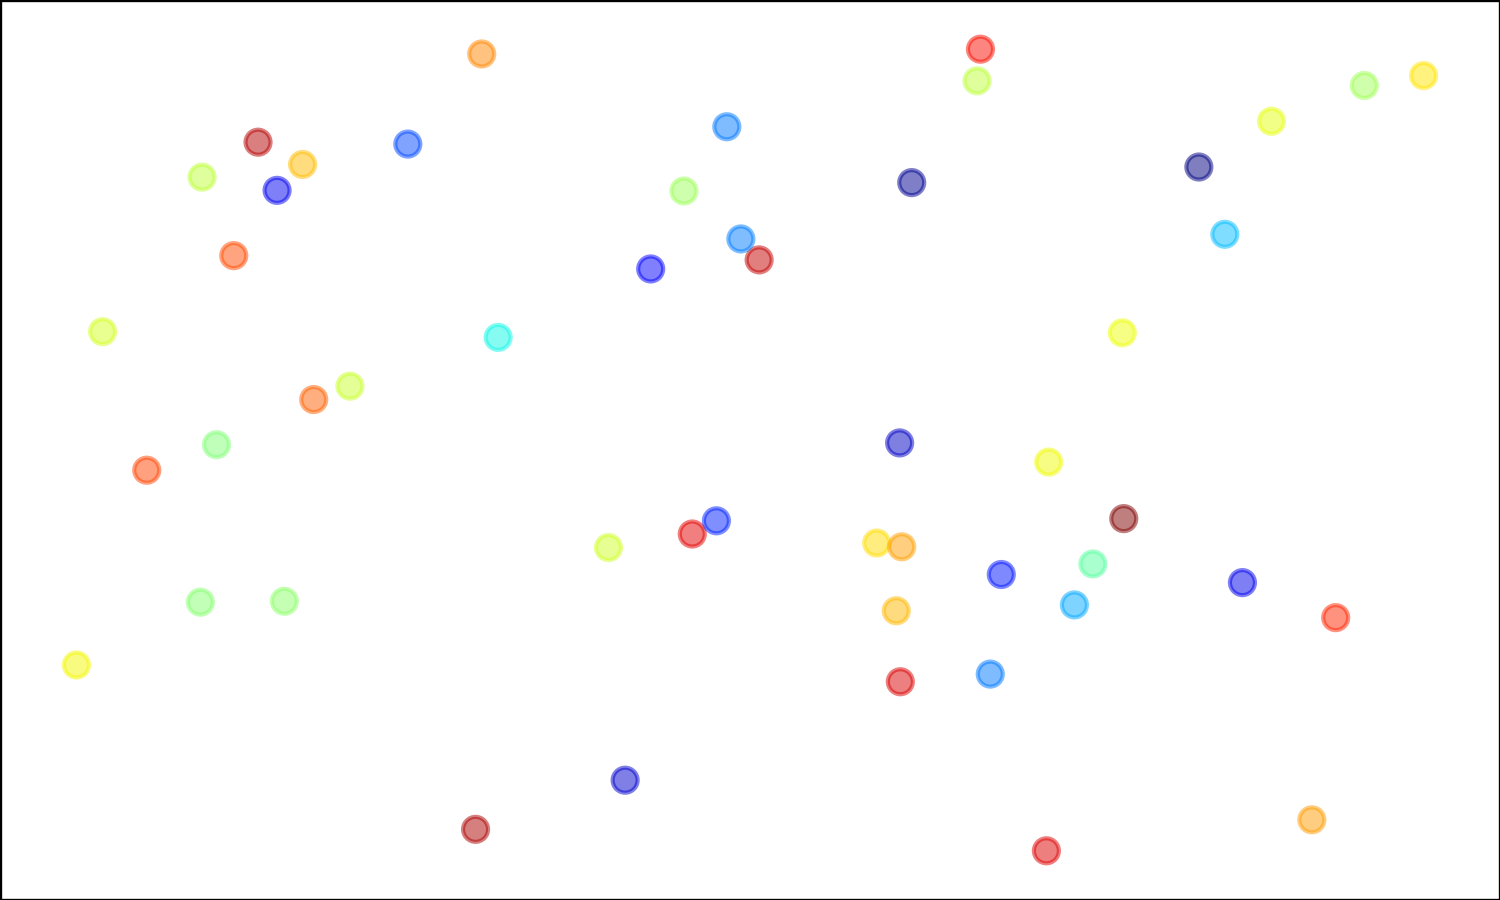
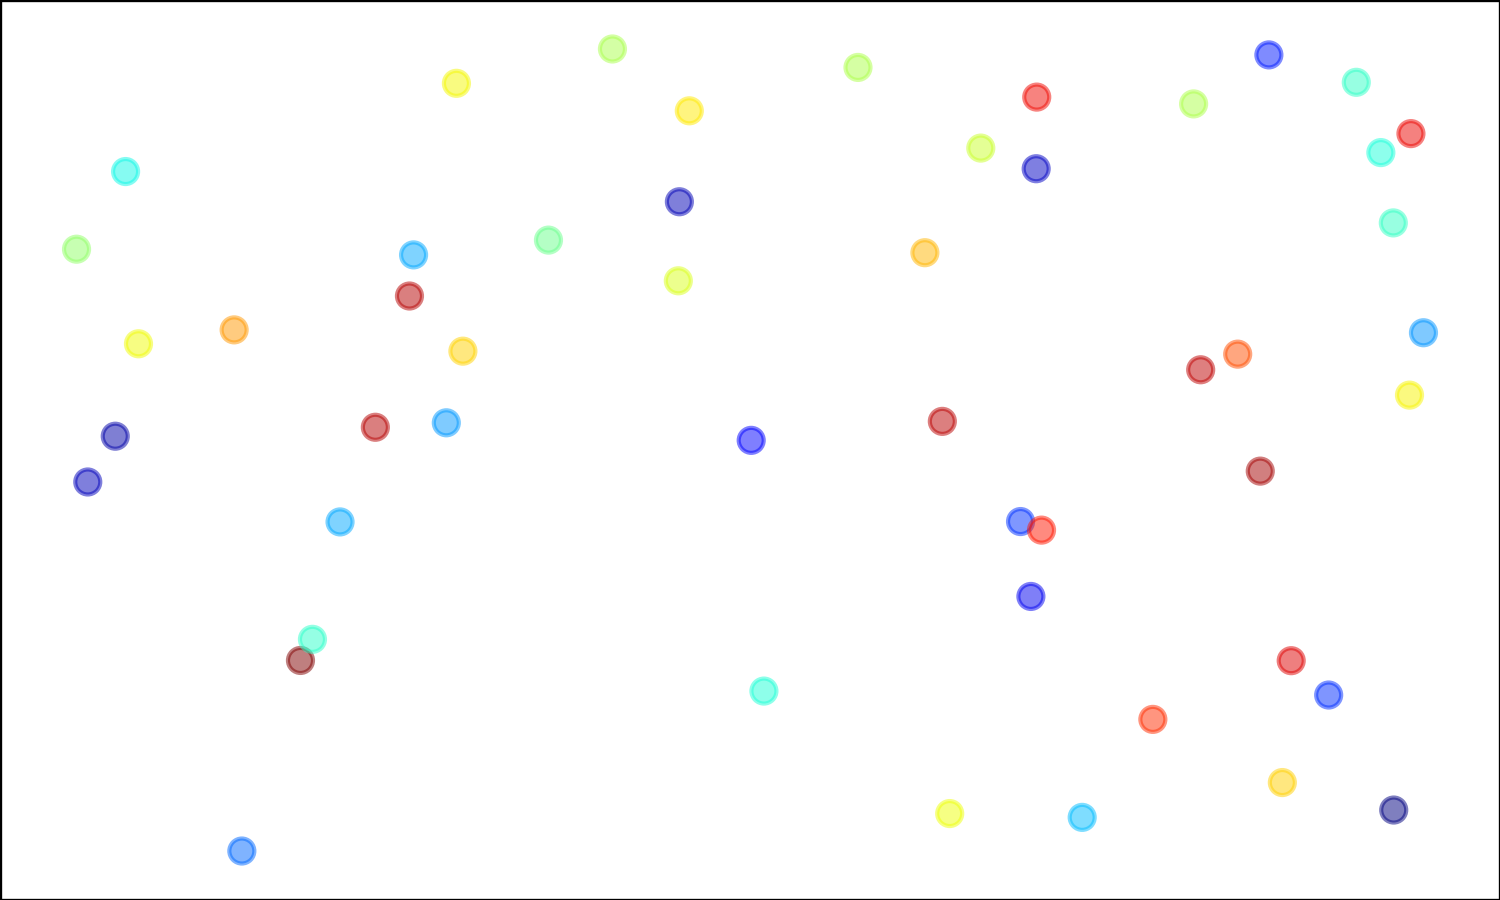
20201016

diff --git a/第5章 应用最广泛的绘图库Matplotlib/code_5.1.5.py b/第5章 应用最广泛的绘图库Matplotlib/code_5.1.5.py
@@ -12,7 +12,7 @@ plt.rcParams['axes.unicode_minus'] = False # 正确显示连字符
 
 fig = plt.figure()
 fig.set_size_inches(5, 3) # 设置画布为5英寸宽3英寸高
-axes = fig.add_axes([0, 0, 1, 1])
+axes = fig.add_axes([0.1, 0.1, 0.8, 0.8])
 x = np.random.rand(50) # 随机生成散点x坐标
 y = np.random.rand(50) # 随机生成散点y坐标
 color = 2 * np.pi * np.random.rand(50) # 随机生成散点颜色

diff --git a/第7章 科学计算工具包SciPy/code_7.3.3.py b/第7章 科学计算工具包SciPy/code_7.3.3.py
@@ -56,5 +56,5 @@ plt.plot(x, f4(x), label='4次多项式拟合，误差%0.6f'%err4)
 plt.plot(x, f5(x), label='5次多项式拟合，误差%0.6f'%err5)
 plt.plot(x, f6(x), label='6次多项式拟合，误差%0.6f'%err6)
 plt.plot(x, f7(x), label='7次多项式拟合，误差%0.6f'%err7)
-plt.legend()
+plt.legend(loc='lower center')
 plt.show()

diff --git a/第7章 科学计算工具包SciPy/code_7.4.1.py b/第7章 科学计算工具包SciPy/code_7.4.1.py
@@ -18,8 +18,8 @@ s3 = 0.3*np.sin(5*x)
 s = s1 + s2 + s3
 
 plt.plot(x, s1, label='s1-2Hz分量')
-plt.plot(x, s2, label=' s2-6Hz分量')
-plt.plot(x, s3, label=' s3-10Hz分量 ')
+plt.plot(x, s2, label='s2-6Hz分量')
+plt.plot(x, s3, label='s3-10Hz分量 ')
 plt.plot(x, s, label='s–复合信号')
 plt.legend()
 plt.show()

diff --git a/README.md b/README.md
@@ -1,4 +1,4 @@
-# Python高手修炼之道——数据处理与机器学习进阶工具
+# Python高手修炼之道——数据处理与机器学习实战
 
 ## 本书面向的读者对象
 
